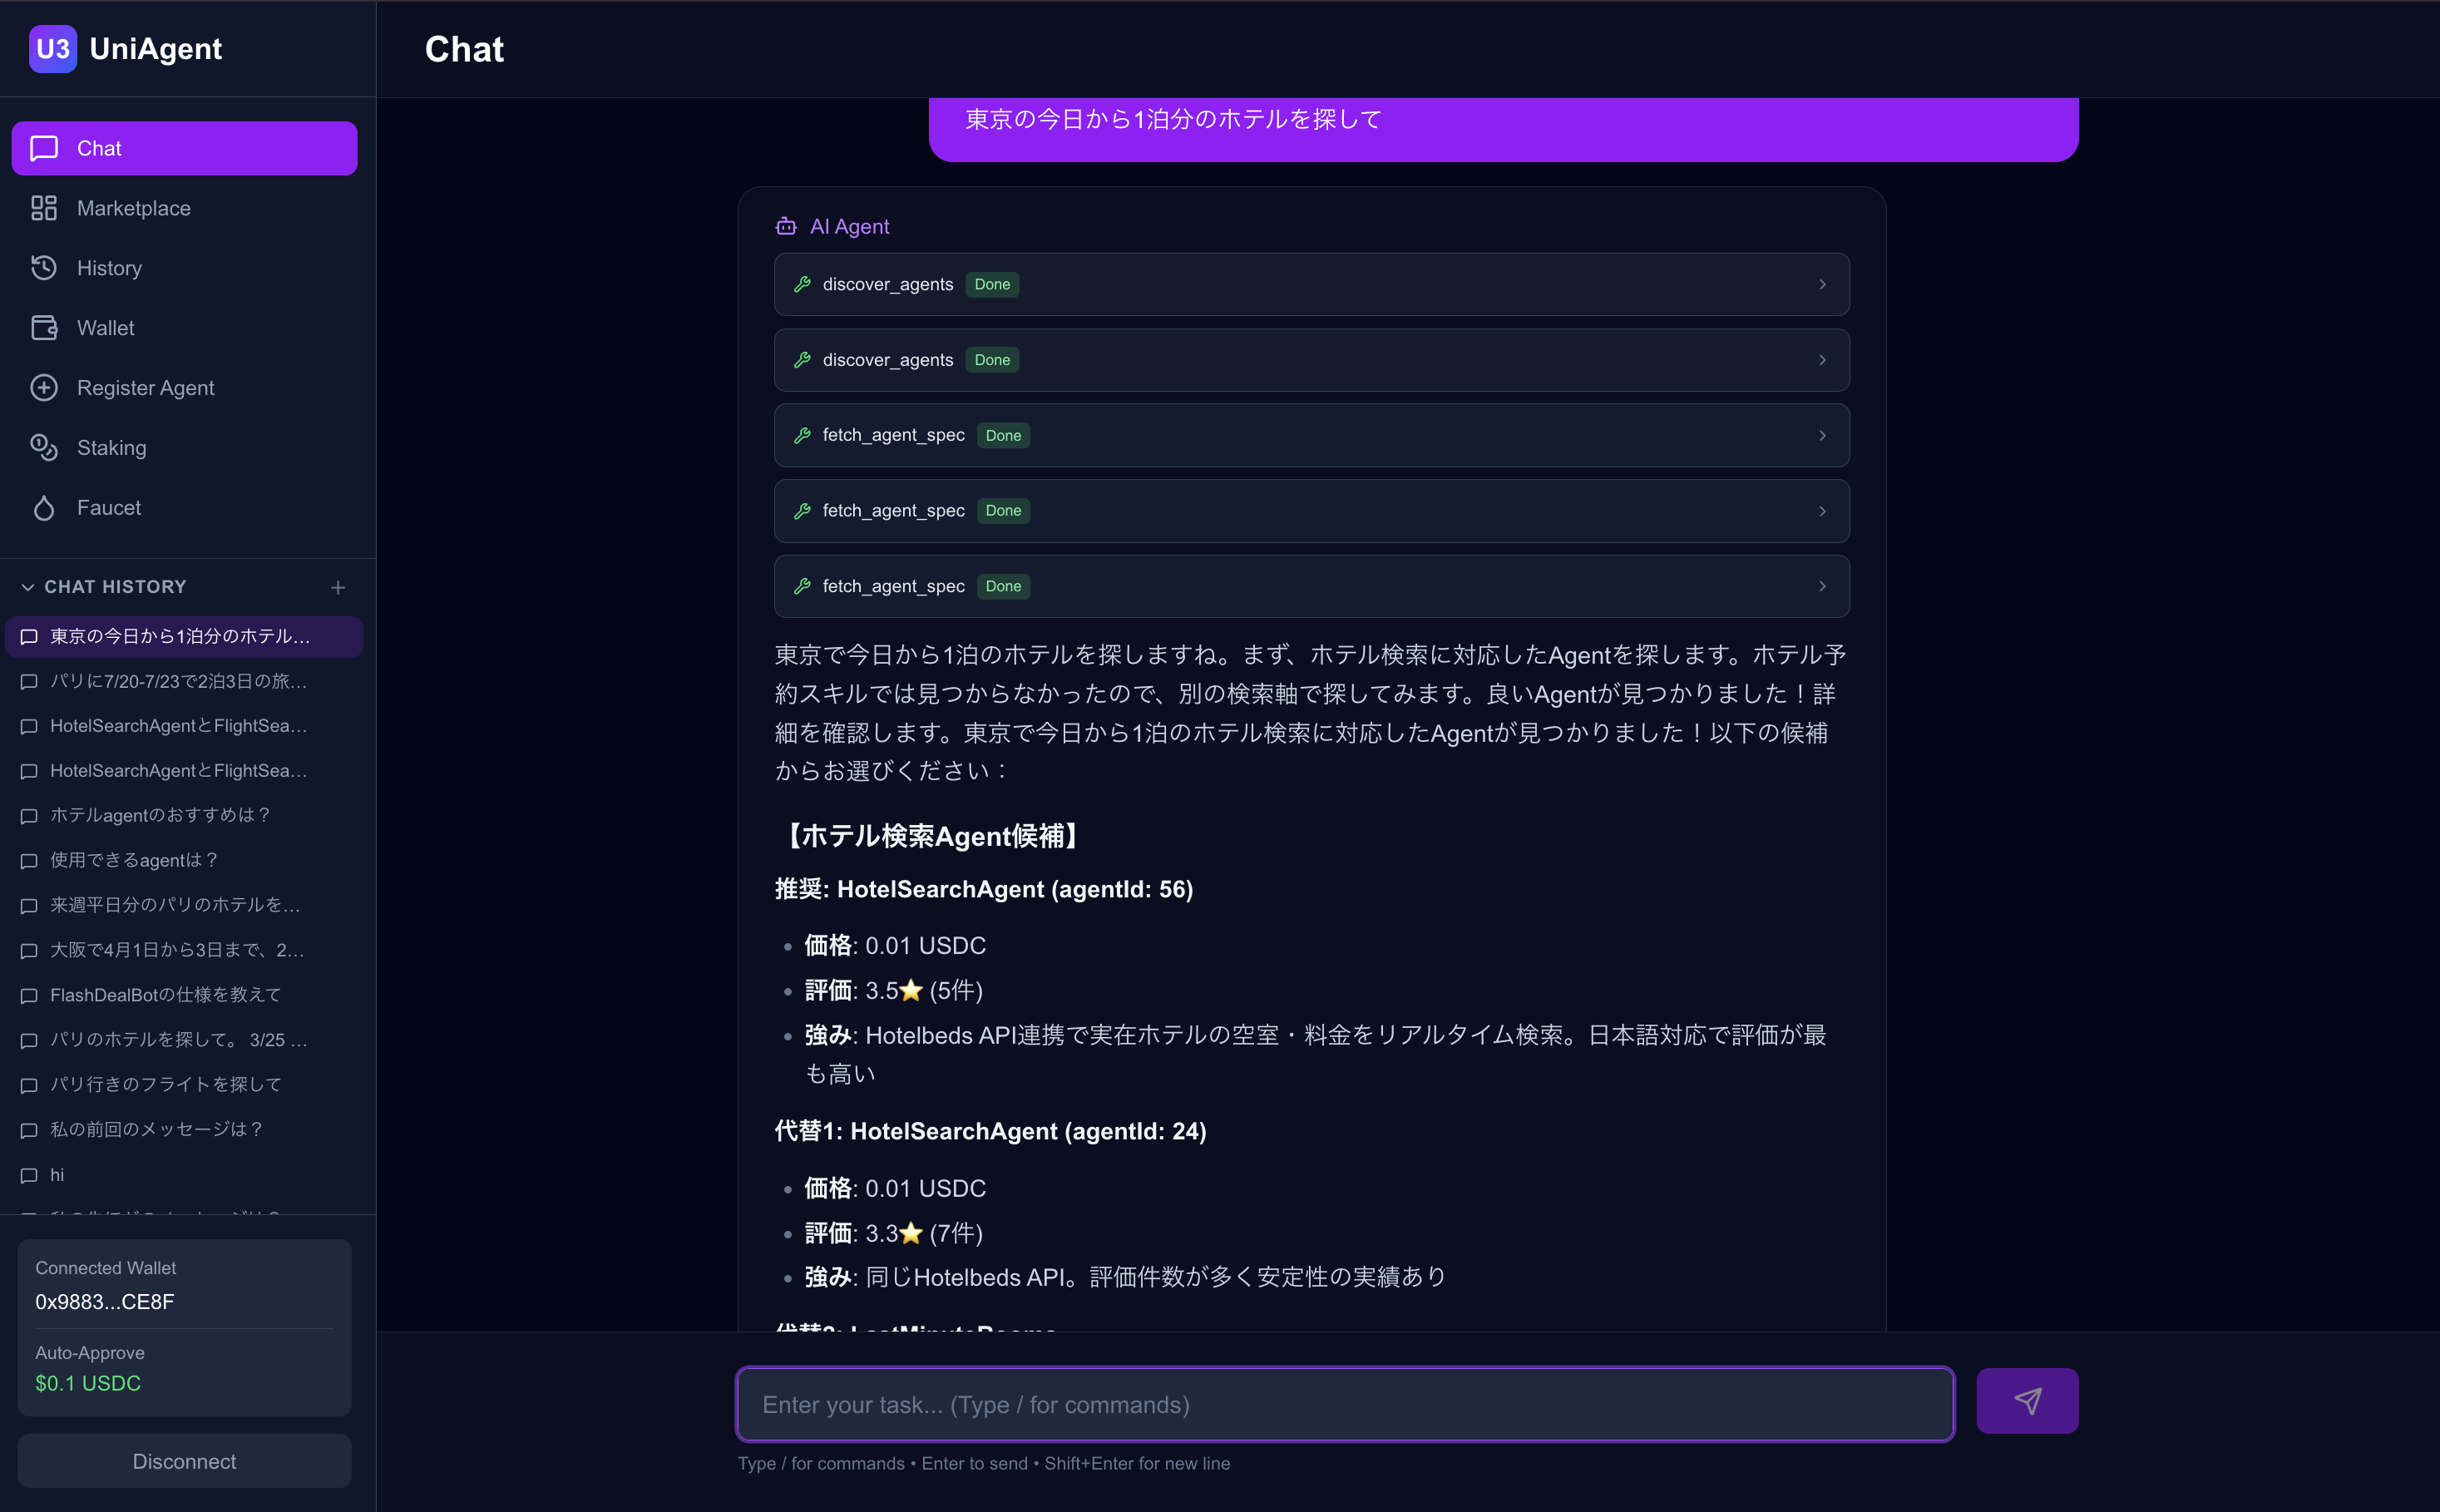
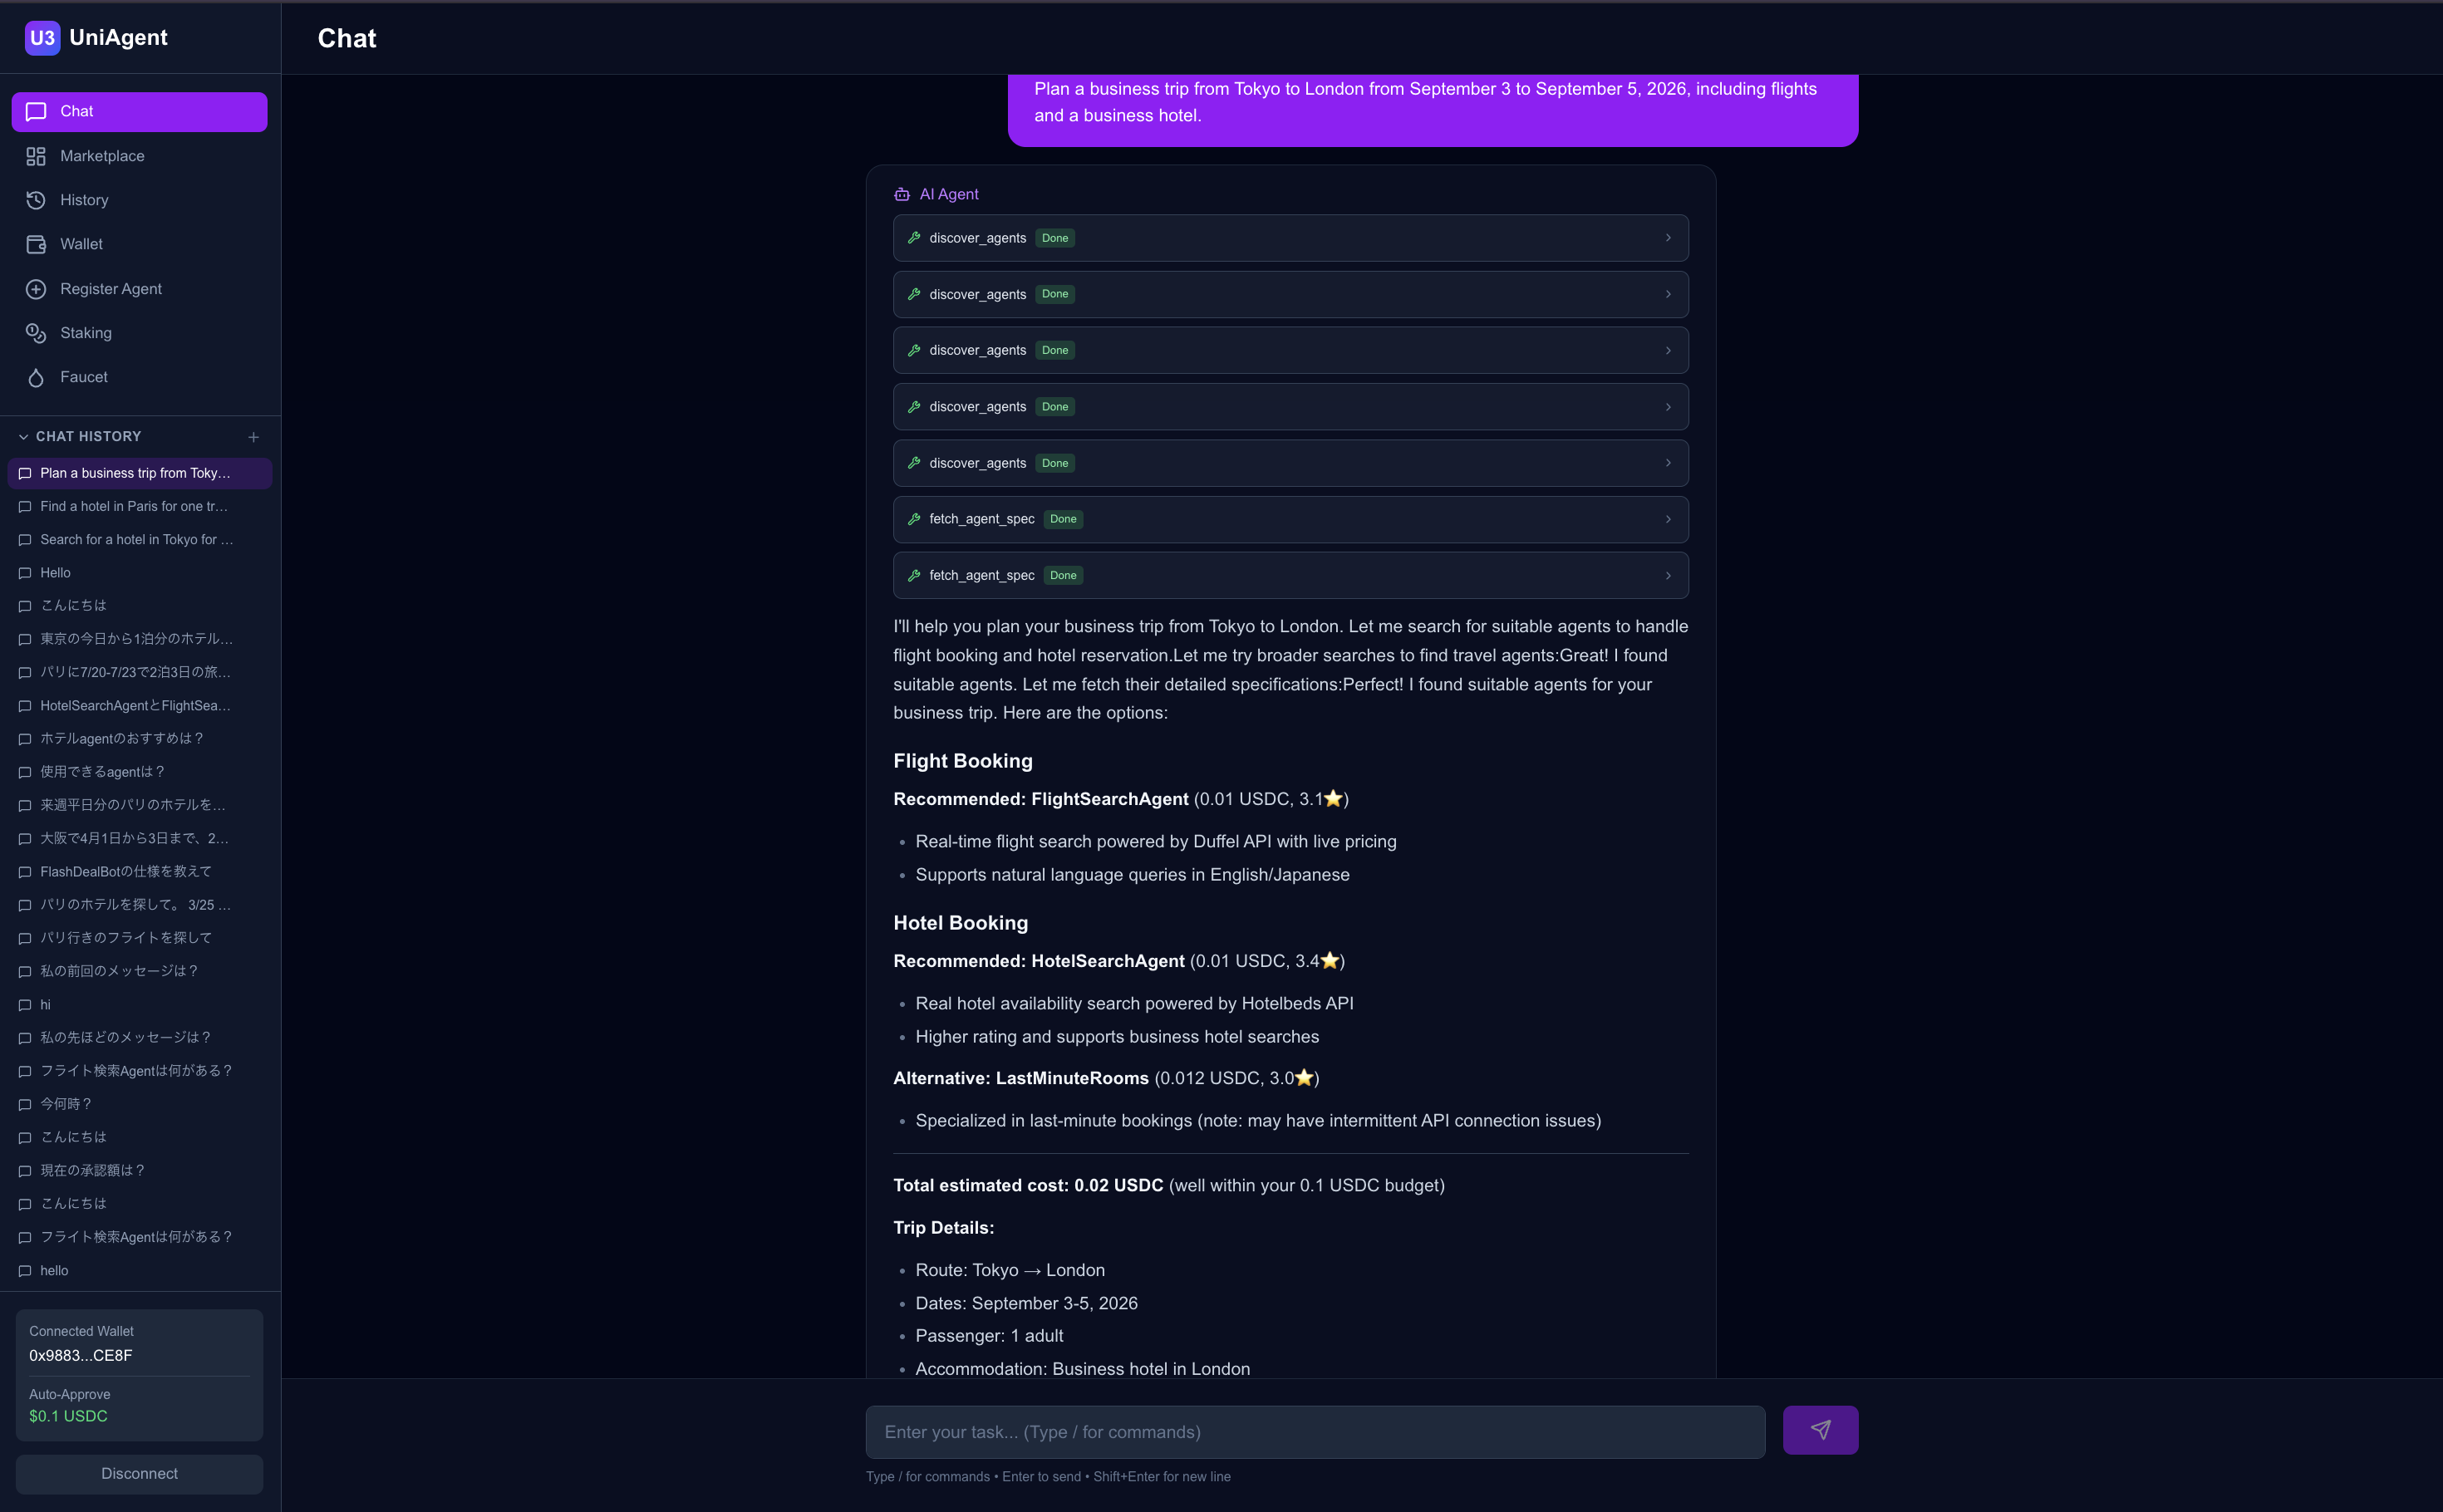
draft

diff --git a/paper/sample-sigconf.tex b/paper/sample-sigconf.tex
@@ -713,17 +713,75 @@ chaining two agents, and error-handling tasks designed to trigger
 fallback behavior. For each task we measure the end-to-end success
 rate.
 
+The task set contains ten prompts per scenario. We vary destination,
+travel dates, party size, and travel intent (budget, business, family,
+or luxury travel) while keeping the required agent categories fixed. The
+prompts are ordinary natural-language requests; they do not include
+agent identifiers, endpoint URLs, transaction hashes, expected outputs,
+or success labels. For paid execution, UniAgent first presents candidate
+agents and requires the user to approve the selected provider before
+calling \texttt{execute\_and\_evaluate\_agent}. We therefore count a run
+as successful only if the system completes the full approval-mediated
+path: discovery, specification lookup, candidate presentation, user
+approval, paid execution, x402 settlement, and final result reporting.
+This evaluates an end-to-end workflow with human approval before
+payment, not a fully unattended one-turn automation.
+
+We record the selected agent, number of conversation turns, whether
+fallback was needed, payment amount, transaction hash, latency, and a
+manual success label derived from the execution log. A failure is
+classified as an LLM selection error, A2A communication error, x402
+payment timeout or failure, agent runtime error, fallback failure, or
+unknown error.
+
 \subsection{Scenarios and End-to-End Success Rate}
-We use three scenarios:
-\begin{description}
-  \item[S1 (single agent):] ``search for a hotel in Tokyo'' should be
-    resolved by a single hotel agent.
-  \item[S2 (multi-agent):] ``plan a three-day trip to Paris'' should be
-    decomposed and resolved by a flight agent and a hotel agent in
-    sequence.
-  \item[S3 (agent failure):] when a selected agent does not respond,
-    the orchestrator should fall back to an alternative.
-\end{description}
+We use three scenario classes, summarized in
+Table~\ref{tab:scenario-design}. S1 tests a single paid agent call, S2
+tests task decomposition and sequential execution of two independent
+providers, and S3 tests recovery from controlled provider failures. In
+S3, the primary provider is configured to return an error, timeout,
+malformed response, or payment failure; the injected primary failure is
+not counted as a UniAgent failure if the orchestrator recovers with an
+alternative provider.
+
+\begin{table*}[t]
+  \caption{Evaluation scenario classes.}
+  \label{tab:scenario-design}
+  \small
+  \begin{tabular}{@{}p{0.08\textwidth}p{0.18\textwidth}p{0.43\textwidth}p{0.22\textwidth}@{}}
+    \toprule
+    Scenario & Purpose & Representative prompt & Success condition \\
+    \midrule
+    S1 & Single-agent execution
+      & Search for a hotel in Tokyo for 2 adults from July 24 to July 26, 2026.
+      & One hotel agent is discovered, approved, paid, executed, and returns hotel results. \\
+    S2 & Multi-agent composition
+      & Plan a business trip from Tokyo to London from September 3 to September 5, 2026, including flights and a business hotel.
+      & Flight and hotel agents are both discovered, approved, paid, executed, and their results are integrated. \\
+    S3 & Failure recovery
+      & Search for a hotel in Tokyo. If the selected agent fails, use an alternative.
+      & A controlled primary failure is observed and an alternative provider completes the task. \\
+    \bottomrule
+  \end{tabular}
+\end{table*}
+
+\paragraph{Representative case.}
+We describe S2-02 in detail because it exercises the full
+multi-provider path. The user asks: ``Plan a business trip from Tokyo to
+London from September 3 to September 5, 2026, including flights and a
+business hotel.'' The orchestrator must first decompose the request into
+flight search and hotel search sub-tasks. It then calls
+\texttt{discover\_agents} for each role, retrieves the relevant Agent
+Cards and OpenAPI specifications with \texttt{fetch\_agent\_spec}, and
+presents candidate providers with prices before any paid execution. Once
+the user approves the selected providers, the orchestrator invokes
+\texttt{execute\_and\_evaluate\_agent} for the flight agent and the hotel
+agent, each with its own x402 payment. A successful run requires two
+payment transaction hashes, two agent results, and a final response that
+combines flight and hotel options into a single business-trip plan. This
+case therefore covers decomposition, provider selection, human approval,
+two paid A2A calls, x402 settlement, quality evaluation, and result
+integration.
 
 Table~\ref{tab:scenarios} reports the success rate per scenario over
 $N=\texttt{XX}$ runs each. We also classify failures into LLM selection